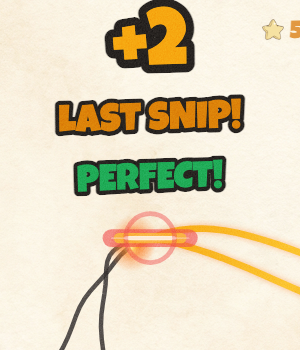
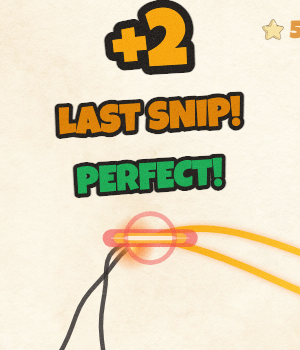
Swap the forbidden teal wire for rose
Teal read too close to the green safe wire. Rose keeps the second
forbidden color in the warm "danger" family alongside red, so forbidden
wires are always warm while safe wires stay cool.

diff --git a/src/engine/Renderer.js b/src/engine/Renderer.js
@@ -30,7 +30,7 @@ export const COMIC_WORDS = {
 const WIRE_STOPS = {
     amber: ["#f59e0b", "#fbbf24", "#d97706", "#b45309"],
     red: ["#ef4444", "#f87171", "#dc2626", "#991b1b"],
-    teal: ["#2dd4bf", "#14b8a6", "#0d9488", "#0f766e"],
+    rose: ["#f9a8d4", "#ec4899", "#db2777", "#be185d"],
     blue: ["#3b82f6", "#60a5fa", "#2563eb", "#1e40af"],
     purple: ["#c084fc", "#a855f7", "#9333ea", "#7e22ce"],
     green: ["#22c55e", "#4ade80", "#16a34a", "#15803d"],
@@ -38,14 +38,14 @@ const WIRE_STOPS = {
 /** Fill colors for the legend chips (solid, slightly darker than the live stops). */
 const WIRE_CHIP = {
     red: "#dc2626",
-    teal: "#0d9488",
+    rose: "#db2777",
     blue: "#2563eb",
     purple: "#9333ea",
     green: "#16a34a",
 };
 const WIRE_CHIP_BORDER = {
     red: "#7f1d1d",
-    teal: "#134e4a",
+    rose: "#831843",
     blue: "#1e3a8a",
     purple: "#581c87",
     green: "#14532d",
